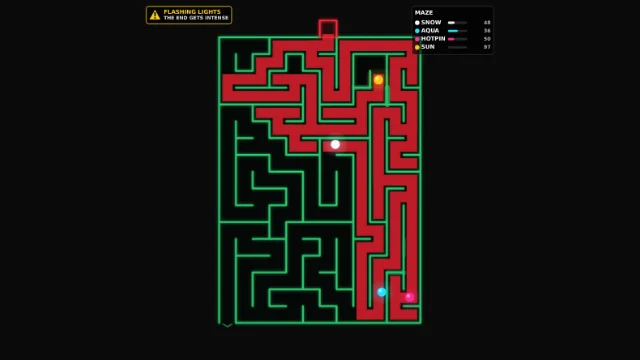
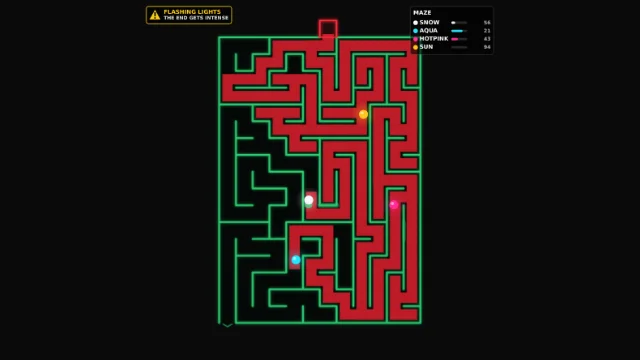
WIP odd-maze: work in progress saved before the clone is reused
Uncommitted state of the paused odd-maze implementer, committed as-is so the
next implementer can resume from it. Unverified.

Claude-Session: https://claude.ai/code/session_01NdFWtq7ibgGQ5UNiogNQqS

diff --git a/tests/maze.test.ts b/tests/maze.test.ts
@@ -509,7 +509,7 @@ describe("the maze in the engine", () => {
     expect(view.visitedCells).toBeGreaterThan(0);
   });
 
-  it("keeps every ball inside the maze at any speed, pull, size and canvas", () => {
+  it("keeps every ball inside the maze at any speed, pull, size and canvas", { timeout: 30_000 }, () => {
     const cases: [Partial<MazeSettings>, Partial<PhysicsConfig>][] = [
       [{ cols: 40, speed: 3, gravity: 1, brain: "bounce", balls: 8 }, { width: 800, height: 600, ballRadius: 30 }],
       [{ cols: 40, speed: 3, gravity: 1, brain: "explorer", balls: 8 }, { width: 360, height: 900, ballRadius: 30 }],
@@ -556,7 +556,7 @@ describe("the maze in the engine", () => {
     }
   });
 
-  it("replays a seed exactly: positions, notes, paint and the verdict", () => {
+  it("replays a seed exactly: positions, notes, paint and the verdict", { timeout: 30_000 }, () => {
     const trace = (seed: number) => {
       const engine = engineFor({ balls: 4, brain: "explorer" }, seed);
       const events = run(engine, 40_000);
@@ -594,7 +594,7 @@ describe("the maze in the engine", () => {
     expect(view.notes).toBe(pitches.length);
   });
 
-  it("the first ball out wins – an escape in the team stats, the wall-break sound – and the run finishes after the hold", () => {
+  it("the first ball out wins – an escape in the team stats, the wall-break sound – and the run finishes after the hold", { timeout: 30_000 }, () => {
     const engine = engineFor({ balls: 3, brain: "wallFollow" }, 8);
     const view = engine.getMazeView();
     const events = run(engine, 120_000);
@@ -629,7 +629,7 @@ describe("the maze in the engine", () => {
     expect(view.finished).toBe(true);
   });
 
-  it("the rig: the forced winner wins every seed, the exit sealed to the others until it is out", () => {
+  it("the rig: the forced winner wins every seed, the exit sealed to the others until it is out", { timeout: 30_000 }, () => {
     for (let seed = 1; seed <= 8; seed++) {
       const engine = engineFor({ balls: 4, brain: "explorer" }, seed, { forcedWinner: 2 });
       const view = engine.getMazeView();

diff --git a/src/components/simulator/mazeRenderer.ts b/src/components/simulator/mazeRenderer.ts
@@ -131,6 +131,9 @@ export class MazeLayer {
   /** The widest place tag of the HUD ("OUT #8"), for the labels it was made with. */
   private tagLabels: MazeLabels | null = null;
   private tagText = "";
+  /** The widest palette name at the HUD's font size (the cap of the name column), for the size it was measured at. */
+  private paletteWidth = 0;
+  private paletteWidthKey = -1;
   // Mirrored onto the canvas as data-mz-* for tools and the smoke test.
   badgeDrawn = false;
   hudDrawn = false;
@@ -624,17 +627,29 @@ export class MazeLayer {
     ctx.fillText(L.badgeBottom, tx + icon + pad, y + pad + 1.1 * fs);
   }
 
+  /** Width of the widest palette name at the HUD's font size `fs` (the font must be set), cached per size. */
+  private paletteNameWidth(ctx: CanvasRenderingContext2D, fs: number): number {
+    const key = Math.round(fs * 100);
+    if (this.paletteWidthKey !== key) {
+      let w = 0;
+      for (const p of MZ_PALETTE) w = Math.max(w, ctx.measureText(p.name).width);
+      this.paletteWidthKey = key;
+      this.paletteWidth = w;
+    }
+    return this.paletteWidth;
+  }
+
   private drawHud(ctx: CanvasRenderingContext2D, view: MazeView, right: number, top: number, side: number, L: MazeLabels) {
     // Narrow enough for the band beside the maze column (about a fifth of the square) with eight balls.
     const fs = Math.max(7, 0.0145 * side);
     const rowH = 1.45 * fs;
     const pad = 0.55 * fs;
-    const barW = 3.4 * fs;
+    const barW = 2.8 * fs;
     const barH = 0.42 * fs;
     ctx.font = this.font(fs, 800);
     let nameW = 0;
     for (let i = 0; i < view.count; i++) nameW = Math.max(nameW, ctx.measureText(this.nameOf(i)).width);
-    nameW = Math.min(nameW, 4.2 * fs);
+    nameW = Math.min(nameW, this.paletteNameWidth(ctx, fs)); // every palette name (HOTPINK…) fits; a longer roster name is clipped
     if (this.tagLabels !== L) {
       this.tagLabels = L;
       this.tagText = L.out(8);

diff --git a/src/components/simulator/Simulator.tsx b/src/components/simulator/Simulator.tsx
@@ -1131,6 +1131,7 @@ export default function Simulator() {
         engine.setVortexSettings(vortexSettingsOf(arena)); // --- gerald-vortex --- (the depth cue, scale and root follow live; the rest waits for a restart)
         engine.setBullseyeSettings(bullseyeSettingsOf(arena)); // --- gerald-bullseye --- (the scale and root follow live; the rest waits for a restart)
         engine.setBeatDropSettings({ sound: arena.bdSound, colorMode: arena.bdColorMode, trail: arena.bdTrail, clipSec: arena.recordingDuration, scale: arena.scale, rootNote: arena.rootNote }); // --- beat-drop --- (what a landing plays, the colours, the trail, the clip and the scale follow live; the plan waits for a restart)
+        engine.setMazeSettings({ trail: arena.mzTrail, trailColor: arena.mzTrailColor, trailOwn: arena.mzTrailOwn, fog: arena.mzFog, wallColor: arena.mzWallColor, badge: arena.mzBadge, hud: arena.mzHud }); // --- odd-maze --- (the drawing follows live; the maze and the race wait for a restart)
       },
     }),
     [initEngineForMode],
